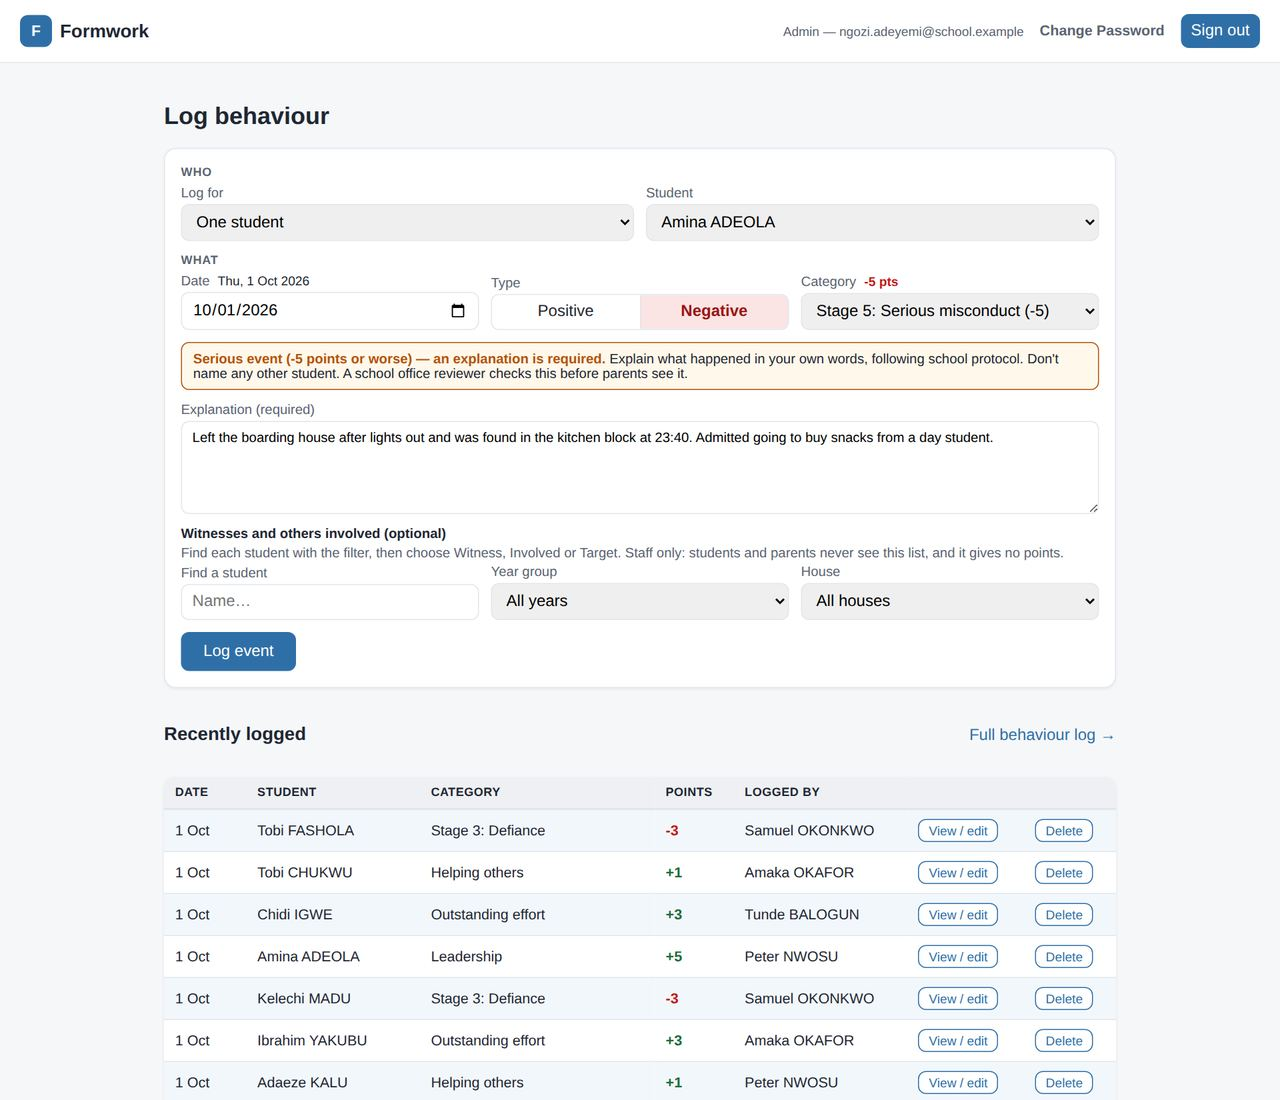
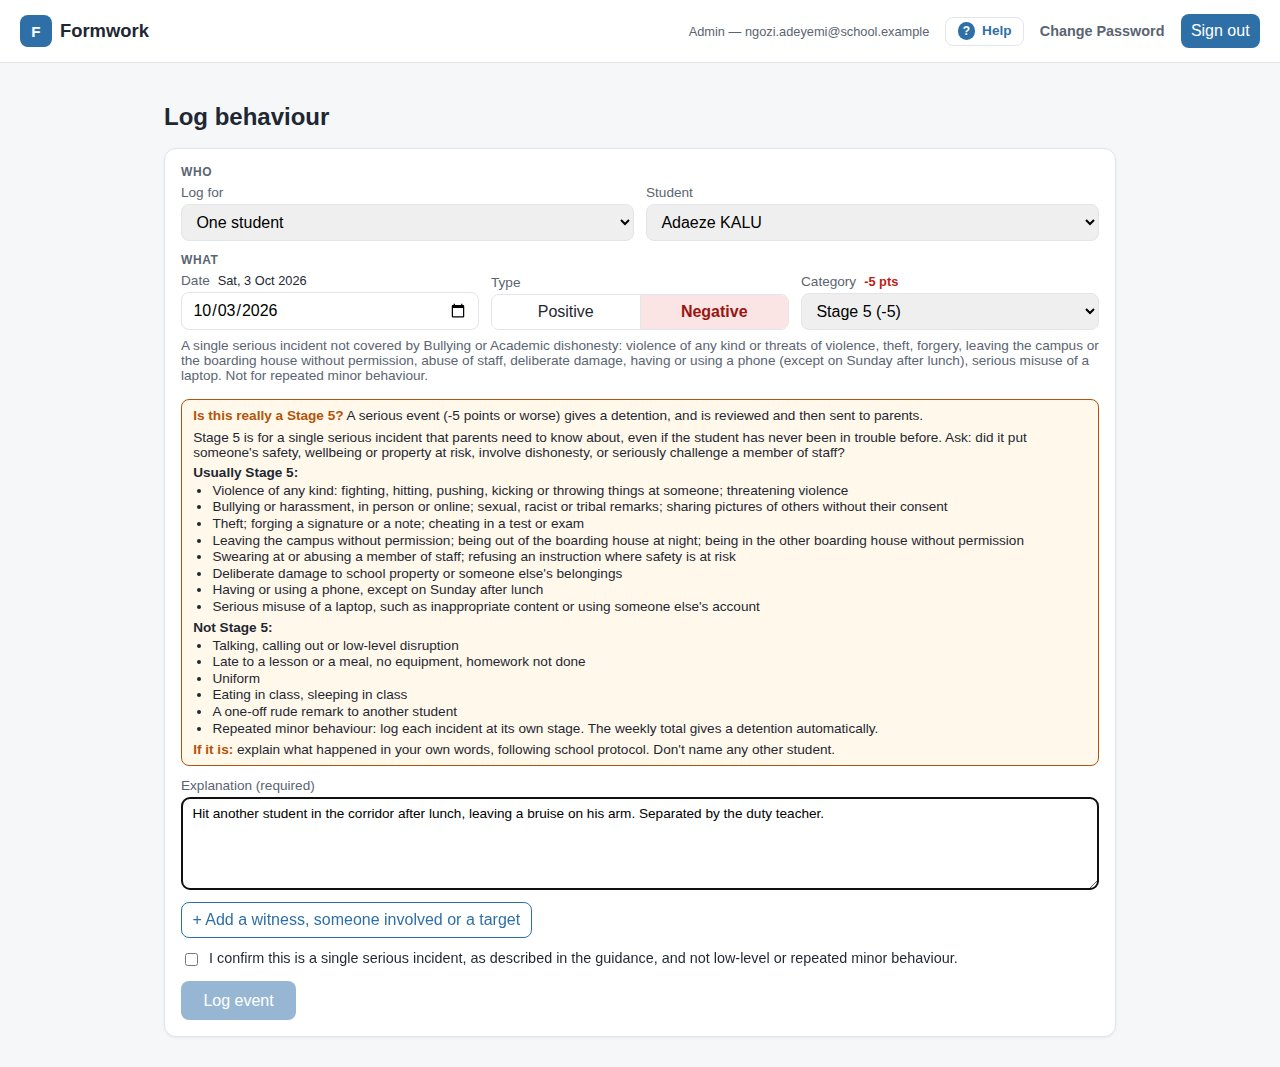
Manual: Stage 5 screenshots and wording; fix returned cards on Behaviour Review
User Manual: new screenshots of logging a Stage 5 (guidance box, category
description, confirmation tick) and of Behaviour Review (returning an
event, the Returned section, the count by teacher), taken on invented
data; Lookups, the teacher's quick start and the rules summary now
mention the Stage 5 guidance, the tick and returned events.

Behaviour Review fixes found while taking the screenshots: a returned
card said "Parents can already see this text" (it is hidden), showed the
return note twice, and the note box used a monospace font.

Claude-Session: https://claude.ai/code/session_01SABWGhBn5Fqhc7Pc12npvR

diff --git a/app/behaviour/review/page.js b/app/behaviour/review/page.js
@@ -202,7 +202,8 @@ function ReviewInner() {
     const busy = busyKey === item.key;
     // Negative events are hidden until sent; positive ones are always shown.
     // A returned event can't be sent until the teacher has changed it.
-    const textWaiting = events.some((e) => e.type === 'negative' && !e.visible_to_parents && !e.returned_at);
+    const textHidden = events.some((e) => e.type === 'negative' && !e.visible_to_parents);
+    const textWaiting = textHidden && !events.some((e) => e.returned_at);
     const reviewedBefore = events.every((e) => e.protocol_reviewed_at);
     const photoWaiting = photo?.status === 'pending';
     const flagged = events.some((e) => mentionsAnotherStudent(e.description, e.student_id));
@@ -251,7 +252,7 @@ function ReviewInner() {
                 <div key={ev.event_id} style={{ display: 'flex', flexDirection: 'column', gap: '0.2rem' }}>
                   {events.length > 1 && <span style={{ fontSize: '0.85em', color: '#666' }}>{fullName(ev.students)}</span>}
                   {/* The picture is shown alongside, so the editor doesn't show it again. */}
-                  <EventCommentEditor event={{ ...ev, photo_id: null }} onSaved={(changes) => updateEvent(ev.event_id, changes)} />
+                  <EventCommentEditor event={{ ...ev, photo_id: null, return_note: null }} onSaved={(changes) => updateEvent(ev.event_id, changes)} />
                 </div>
               )) : (
                 <span style={{ whiteSpace: 'pre-wrap', color: first.description ? 'inherit' : '#666' }}>
@@ -261,7 +262,7 @@ function ReviewInner() {
                   </span>
                 </span>
               )}
-              {!textWaiting && (
+              {!textHidden && (
                 <span style={{ fontSize: '0.85em', color: '#666' }}>Parents can already see this text.</span>
               )}
               {flagged && (
@@ -309,6 +310,7 @@ function ReviewInner() {
               value={returning[item.key]}
               onChange={(e) => setReturning({ ...returning, [item.key]: e.target.value })}
               placeholder="e.g. Talking in class is Disruption in class (-2), not Stage 5."
+              style={{ font: 'inherit' }}
               autoFocus
             />
           </label>

diff --git a/docs/USER_MANUAL.md b/docs/USER_MANUAL.md
@@ -119,7 +119,7 @@ A teacher's work in Formwork happens mostly in the lesson: take the register, lo
 1. Open **My Timetable** on the dashboard and click the lesson. The register opens with the class, period and date already chosen.
 2. Everyone starts as present. Change the code for anyone absent or late, adding minutes late. Press **Save** within the first 15 minutes; after that the lesson appears on Registers Not Done, and at 15-minute checks it becomes a register alert for HR and the office.
 3. If a student who was in an earlier lesson is missing, mark them N (no reason yet). The office gets a pop-up straight away and goes to find them. Don't wait to report it some other way.
-4. To praise or sanction during the lesson, press **Log behaviour for this class** on the register, pick the student(s) and the category, and save. A −5 event needs a written explanation of what happened, naming no other student.
+4. To praise or sanction during the lesson, press **Log behaviour for this class** on the register, pick the student(s) and the category, and save. A −5 event needs a written explanation of what happened, naming no other student, and a tick to confirm it really is a single serious incident; read the Stage 5 guidance shown first (chapter 7).
 5. For Year 10 and 11 classes, the **Homework** panel on the register shows what is due. Use **Set homework** there to set the next piece while you're with the class.
 
 **Every day**
@@ -1006,7 +1006,7 @@ Use the **Log behaviour** tile on the dashboard, or **Log behaviour for this cla
 
 **If your Stage 5 comes back.** The reviewer can return a Stage 5 that doesn't look serious enough. You get a message in your inbox with their reason, and the note shows on the event. Its points stop counting straight away, and its detention is cancelled if it hasn't happened yet. Press **Edit** on the event: choose the right category if it isn't a Stage 5 (its points then count), or keep Stage 5 and improve the explanation, which brings back the −5 and its detention and sends it back for review. Every return is counted against the teacher who logged the event, and SMT can see the count.
 
-![Logging a serious event](manual-images/50-log.jpg)
+![Logging a serious event, with the Stage 5 guidance and the confirmation tick](manual-images/50-log.jpg)
 
 **Behaviour Log** (/behaviour/log) searches and filters past events by student, type, category and dates; **View / edit** opens an event. **Behaviour alerts** (/behaviour/alerts) lists events of −3 or worse in the last 7 days; houseparents see their own house.
 
@@ -1025,7 +1025,7 @@ Use the **Log behaviour** tile on the dashboard, or **Log behaviour for this cla
 
 The reviewer ticks the confirmation that the text follows protocol, names no other student and is in good English, then presses **Send text** (or **Don't send yet**). An explanation that names a linked student is refused, with the word to reword. If an event isn't really a Stage 5, press "Not Stage 5: return to teacher", say why, and press "Return to" the teacher. They get your note in their inbox and see it on the event. Its points stop counting at once and its detention is cancelled if it hasn't happened yet (the student is told). The event moves to "Returned to the teacher", where it can't be sent: if they change the category it leaves the page, and if they keep Stage 5 and edit the explanation it comes back to "Waiting for review". Keep the note factual, e.g. "This is Disruption in class, −2." SMT see "Stage 5s returned, by teacher" lower down the page: how many each teacher has had returned, to see who needs more training.
 
-![Behaviour Review](manual-images/53-review.jpg)
+![Behaviour Review, with an event being returned to the teacher and the count by teacher](manual-images/53-review.jpg)
 
 ### Alerts and detentions
 
@@ -1496,7 +1496,7 @@ Add staff (name, code, email: a login is created automatically from the email) a
 
 ### Lookups (/admin/lookups)
 
-The lists and settings the rest of Formwork uses: boarding houses, sports houses, behaviour categories and their points (admins only), the behaviour thresholds and detention room and time, certificate levels, academic years, and admission fee proposals. Thresholds must be negative whole numbers and apply to new events only. Changes are logged.
+The lists and settings the rest of Formwork uses: boarding houses, sports houses, behaviour categories with their points and a short description of when to use each (admins only), the behaviour thresholds and detention room and time, the Stage 5 guidance shown to staff when they log a serious event (under Detentions and serious events: start a line with • or - for a list, end a line with a colon for a heading, then press Save guidance), certificate levels, academic years, and admission fee proposals. Thresholds must be negative whole numbers and apply to new events only. Changes are logged.
 
 ![Lookups](manual-images/122-lookups.jpg)
 
@@ -1601,7 +1601,7 @@ A full database backup runs every night. Admins can also run one before anything
 | --- | --- |
 | Registers | Any staff can mark any register; no future dates; flagged 15 minutes after the start |
 | Missed lessons | Seen in school, then absent without a reason (N or O) in a later or earlier lesson |
-| Behaviour | Points come from the category; −5 needs an explanation; negative events reach parents only after review |
+| Behaviour | Points come from the category; −5 needs an explanation and a confirmation tick; negative events reach parents only after review by the principal's PA or SMT; a Stage 5 returned to the teacher counts 0 until they change it |
 | Detentions | Single event of −5, or a week (Sat–Fri) totalling −10; Friday in CG4 after lesson 7 |
 | Behaviour alert | −5, or a week at −8: email to cs@, SMT and sro@ |
 | Results | Percentages 0–100; grade from the subject's boundaries for the year; one score per set |
